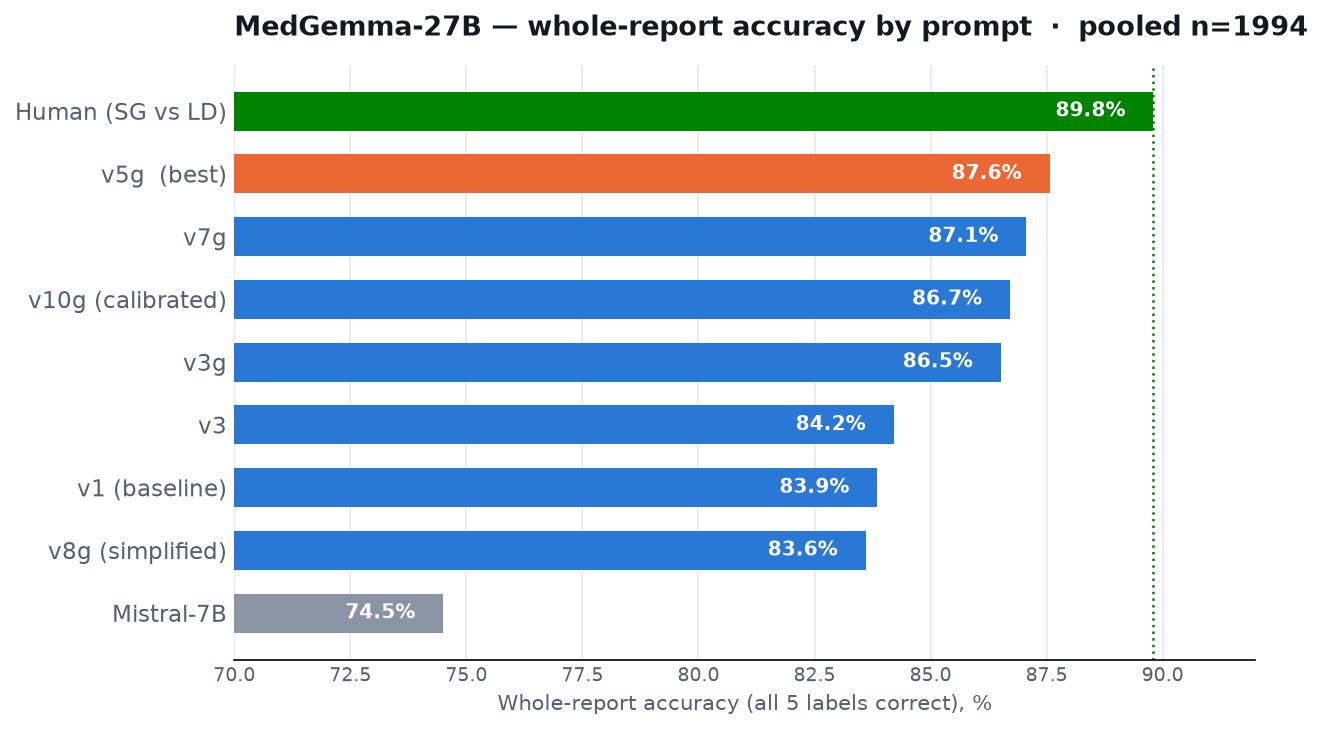
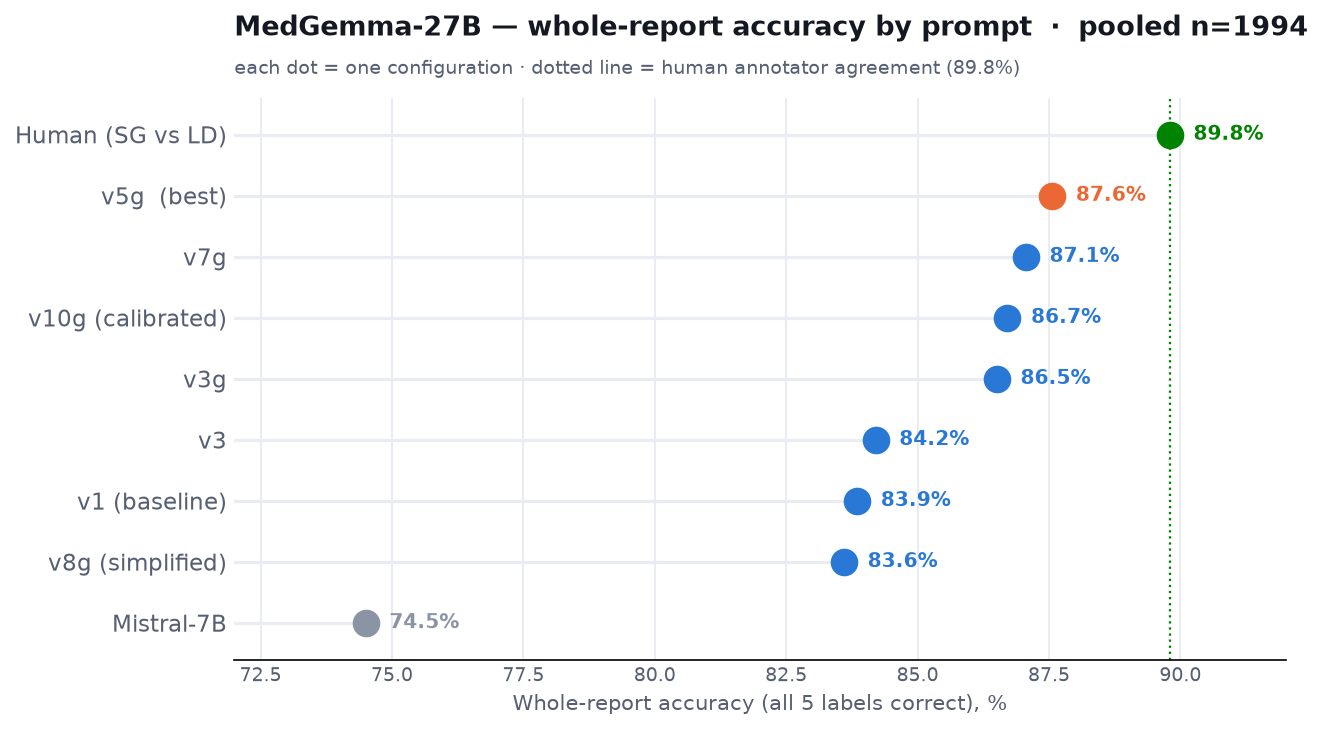
Charts: convert to dot plots (honest non-zero axis, no truncated-bar distortion); fix title spacing

diff --git a/analysis/plot_all_prompts.py b/analysis/plot_all_prompts.py
@@ -64,8 +64,8 @@ def _bare(ax):
 
 
 def chart_whole():
-    # config -> (whole%, colour, group). Grammar variants use Q4 (their stronger quant
-    # for whole-report); v5g labelled as the best.
+    # Cleveland dot plot — position (not bar length) encodes the value, so the
+    # non-zero axis is honest. Grammar variants use Q4; v5g is the best.
     rows = [
         ("Mistral-7B",        MISTRAL_WHOLE,              GREY),
         ("v1 (baseline)",     whole(pooled("v1", "Q2")),  BLUE),
@@ -75,26 +75,31 @@ def chart_whole():
         ("v3g",               whole(pooled("v3g", "Q4")), BLUE),
         ("v7g",               whole(pooled("v7g", "Q4")), BLUE),
         ("v5g  (best)",       whole(pooled("v5g", "Q4")), ORANGE),
-        ("Human (SG vs LD)",  whole(pooled("v5g", "Q2"), "sg_labels") if False else 89.8, GREEN),
+        ("Human (SG vs LD)",  89.8,                       GREEN),
     ]
     rows.sort(key=lambda r: r[1])
-    fig, ax = plt.subplots(figsize=(8.6, 5.0))
+    fig, ax = plt.subplots(figsize=(8.8, 5.0))
     fig.patch.set_facecolor("white"); ax.set_facecolor("white")
-    y = range(len(rows))
-    ax.barh(list(y), [r[1] for r in rows], color=[r[2] for r in rows],
-            height=0.62, zorder=3)
-    for yi, (name, val, _) in zip(y, rows):
-        ax.text(val - 0.6, yi, f"{val:.1f}%", va="center", ha="right",
-                color="white", fontsize=9.5, fontweight="bold", zorder=4)
-    ax.set_yticks(list(y)); ax.set_yticklabels([r[0] for r in rows], color=INK2)
-    ax.set_xlim(70, 92); ax.set_xlabel("Whole-report accuracy (all 5 labels correct), %",
-                                       color=INK2, fontsize=10)
-    ax.axvline(89.8, color=GREEN, lw=1.2, ls=":", zorder=2)
+    x0 = 72
+    for yi, (name, val, col) in enumerate(rows):
+        ax.plot([x0, val], [yi, yi], color=GRID, lw=1.5, zorder=1,
+                solid_capstyle="round")           # faint stem
+        ax.scatter([val], [yi], s=150, color=col, zorder=3)
+        ax.text(val + 0.45, yi, f"{val:.1f}%", va="center", ha="left",
+                color=col, fontsize=9.5, fontweight="bold", zorder=4)
+    ax.axvline(89.8, color=GREEN, lw=1.1, ls=":", zorder=1)
+    ax.set_yticks(range(len(rows)))
+    ax.set_yticklabels([r[0] for r in rows], color=INK2)
+    ax.set_ylim(-0.6, len(rows) - 0.4)
+    ax.set_xlim(x0, 92)
+    ax.set_xlabel("Whole-report accuracy (all 5 labels correct), %", color=INK2, fontsize=10)
     ax.grid(axis="x", color=GRID, lw=1, zorder=0)
     ax.tick_params(axis="x", colors=INK2, labelsize=9)
     _bare(ax)
     ax.set_title("MedGemma-27B — whole-report accuracy by prompt  ·  pooled n=1994",
-                 color=INK, fontsize=13, fontweight="bold", loc="left", pad=14)
+                 color=INK, fontsize=13, fontweight="bold", loc="left", pad=30)
+    ax.text(0, 1.035, "each dot = one configuration · dotted line = human annotator agreement (89.8%)",
+            transform=ax.transAxes, fontsize=9, color=INK2, va="bottom")
     fig.tight_layout(); fig.savefig(OUT / "all_prompts_whole.png", bbox_inches="tight",
                                     facecolor="white")
     plt.close(fig); print("saved all_prompts_whole.png")
@@ -107,23 +112,29 @@ def chart_bycat():
         ("MedGemma v5g", [catf1(v5, k, MODEL, LD) for k in KEYS], BLUE),
         ("Human (SG)", [catf1(v5, k, SG, LD) for k in KEYS], GREEN),
     ]
-    fig, ax = plt.subplots(figsize=(9.2, 4.8))
+    fig, ax = plt.subplots(figsize=(9.2, 5.0))
     fig.patch.set_facecolor("white"); ax.set_facecolor("white")
     import numpy as np
-    x = np.arange(len(KEYS)); w = 0.26
+    x = np.arange(len(KEYS)); off = 0.2
+    from matplotlib.lines import Line2D
+    for xi in x:                                   # faint per-category guide
+        ax.plot([xi, xi], [70, 100], color=GRID, lw=1, zorder=0)
     for i, (name, vals, col) in enumerate(series):
-        bars = ax.bar(x + (i - 1) * w, vals, width=w * 0.92, color=col, zorder=3,
-                      label=name)
-        for b, v in zip(bars, vals):
-            ax.text(b.get_x() + b.get_width() / 2, v + 0.6, f"{v:.0f}",
-                    ha="center", va="bottom", fontsize=7.5, color=INK2)
+        xs = x + (i - 1) * off
+        ax.scatter(xs, vals, s=130, color=col, zorder=3)
+        for xv, v in zip(xs, vals):
+            ax.text(xv, v + 0.9, f"{v:.0f}", ha="center", va="bottom",
+                    fontsize=8, color=col, fontweight="bold")
     ax.set_xticks(x); ax.set_xticklabels(LABELS, fontsize=9.5, color=INK2)
-    ax.set_ylim(70, 100); ax.set_ylabel("Core F1, %", color=INK2, fontsize=10)
+    ax.set_xlim(-0.5, len(KEYS) - 0.5)
+    ax.set_ylim(72, 101); ax.set_ylabel("Core F1, %", color=INK2, fontsize=10)
     ax.grid(axis="y", color=GRID, lw=1, zorder=0)
     ax.tick_params(axis="y", colors=INK2, labelsize=9)
     _bare(ax); ax.spines["left"].set_visible(False)
-    ax.legend(frameon=False, fontsize=9.5, loc="lower center",
-              bbox_to_anchor=(0.5, -0.2), ncol=3, handletextpad=0.4)
+    handles = [Line2D([0], [0], marker="o", linestyle="", markersize=9, color=c, label=l)
+               for l, _, c in series]
+    ax.legend(handles=handles, frameon=False, fontsize=9.5, loc="lower center",
+              bbox_to_anchor=(0.5, -0.18), ncol=3, handletextpad=0.3)
     ax.set_title("Per-category F1 — MedGemma v5g vs Mistral-7B vs human  ·  n=1994",
                  color=INK, fontsize=13, fontweight="bold", loc="left", pad=14)
     fig.tight_layout(); fig.savefig(OUT / "all_prompts_bycat.png", bbox_inches="tight",
